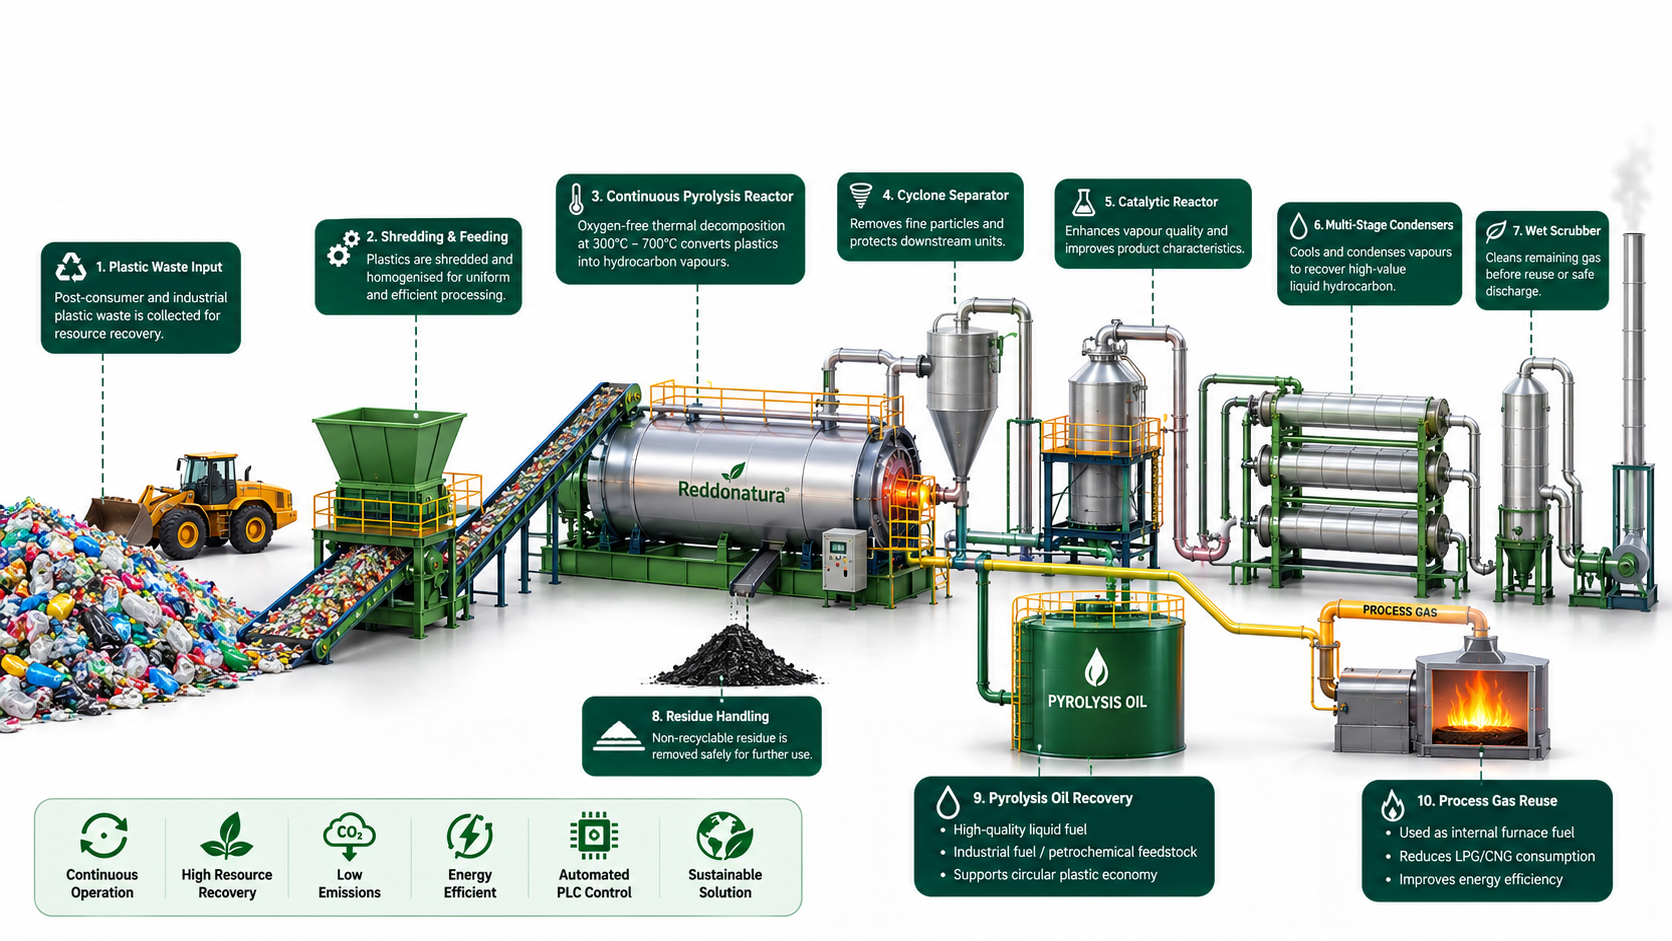
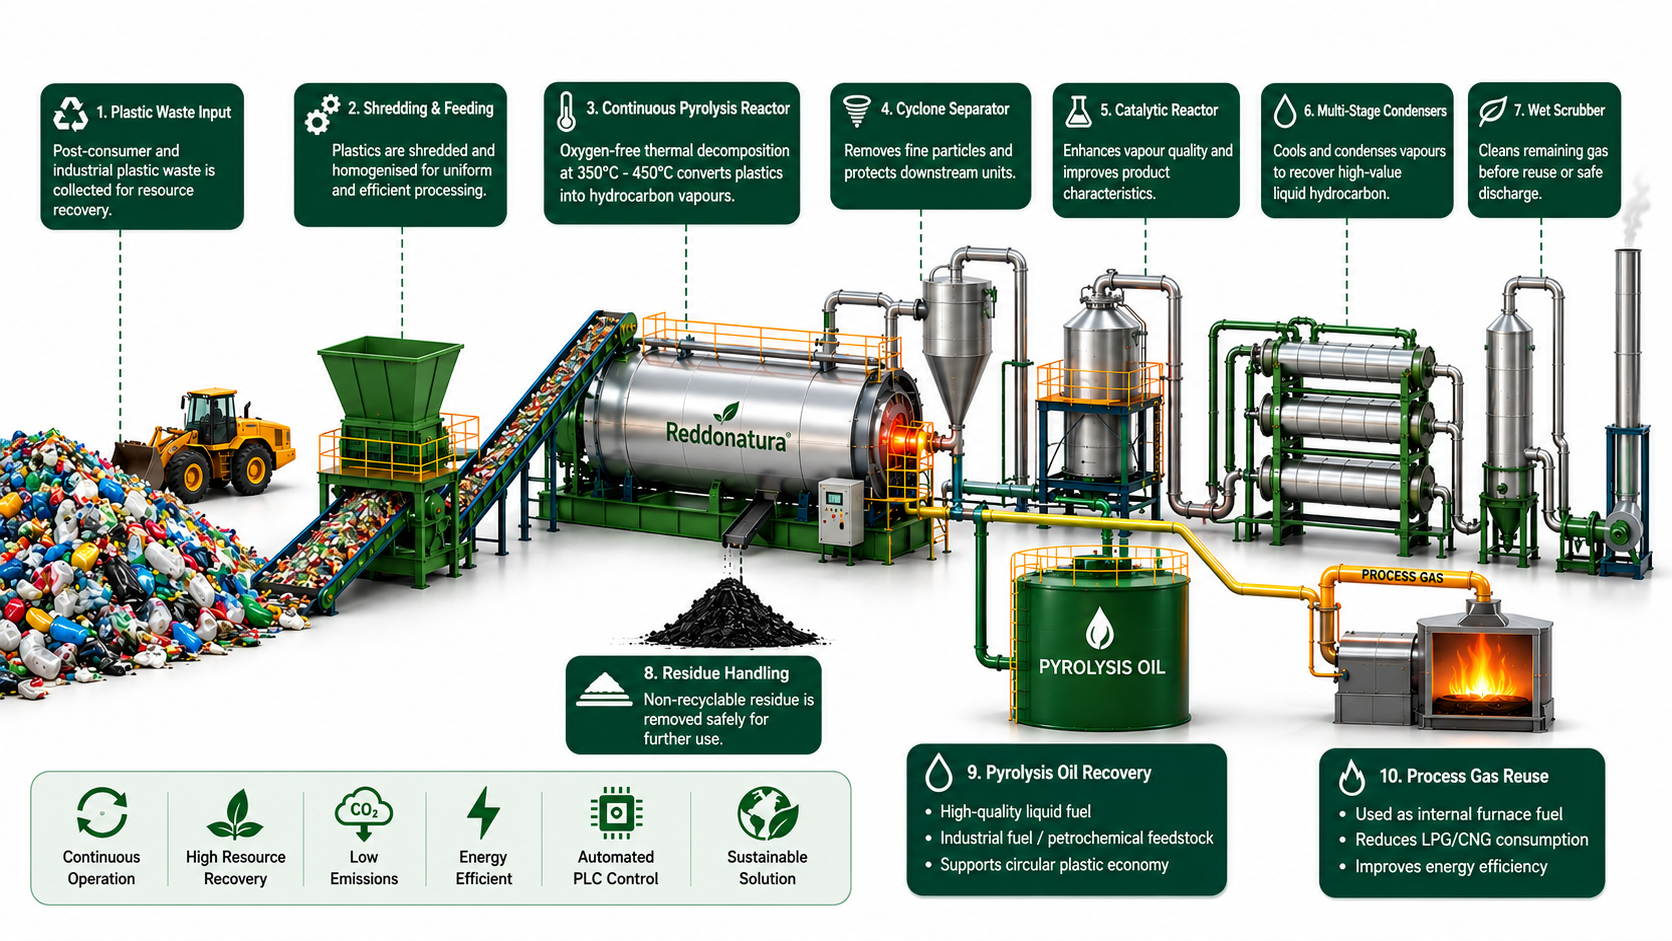
Update pyrolysis page and product images

diff --git a/src/app/pages/products/PyrolysisPage.tsx b/src/app/pages/products/PyrolysisPage.tsx
@@ -285,7 +285,7 @@ function ProductOutputs({ outputs }: {
 const biomassProcess = [
   { step: "01", title: "Feedstock Preparation", desc: "Biomass dried to <15% moisture and particle-sized to 20–50 mm for optimal reactor performance." },
   { step: "02", title: "Auto-Feeding", desc: "Sealed screw conveyor feeds biomass into the reactor continuously, preventing gas leakage." },
-  { step: "03", title: "Pyrolysis Reactor", desc: "Thermal decomposition at 400–600 °C in an oxygen-free environment breaks biomass into vapour fractions." },
+  { step: "03", title: "Pyrolysis Reactor", desc: "Thermal decomposition at 300–700 °C in an oxygen-free environment breaks biomass into vapour fractions." },
   { step: "04", title: "Char Discharge", desc: "Biochar continuously discharged via sealed screw conveyor and cooled for packaging." },
   { step: "05", title: "Oil Condensation", desc: "Pyrolysis vapours pass through multi-stage condensers to recover high-calorific bio-oil." },
 ];
@@ -305,10 +305,10 @@ const biomassOutputs = [
 
 const biomassSpecs: SpecBlock = {
   title: "Biomass Pyrolysis",
-  subtitle: "Continuous rotary kiln, 400–600 °C",
+  subtitle: "Continuous rotary kiln, 300–700 °C",
   rows: [
     { label: "Capacity Range",      value: "500 kg – 20 T/day" },
-    { label: "Reactor Temperature", value: "400 – 600 °C" },
+    { label: "Reactor Temperature", value: "300 – 700 °C" },
     { label: "Bio-Oil Yield",       value: "30 – 45%" },
     { label: "Operation Mode",      value: "Continuous / 24×7" },
   ],
@@ -335,7 +335,7 @@ const biomassSpecs: SpecBlock = {
 const plasticProcess = [
   { step: "01", title: "Sorting & Shredding", desc: "Non-recyclable plastics sorted; metals and PVC removed. Shredded to 30–50 mm for consistent reactor feed." },
   { step: "02", title: "Continuous Feeding", desc: "Sealed screw conveyor delivers shredded plastic into the reactor without gas leakage or pressure loss." },
-  { step: "03", title: "Thermal Cracking", desc: "Plastic heated at 350–450 °C in oxygen-free environment; long-chain polymers crack into hydrocarbon vapours." },
+  { step: "03", title: "Thermal Cracking", desc: "Plastic heated at 300–700 °C in oxygen-free environment; long-chain polymers crack into hydrocarbon vapours." },
   { step: "04", title: "Condensation", desc: "Vapours pass through multi-stage condensers, converting hydrocarbon gases into pyrolysis oil." },
   { step: "05", title: "Carbon Black & Gas", desc: "Residual carbon black discharged and packaged; non-condensable gas recycled to heat the reactor." },
 ];
@@ -405,7 +405,7 @@ function BiomassTab() {
             color: C.mutedText, lineHeight: 1.8, marginBottom: 16 }}>
             Our continuous biomass pyrolysis plant thermally decomposes agricultural residues,
             wood chips, rice husks, coconut shells, and other organic feedstocks in a fully sealed,
-            oxygen-free environment operating at 400–600 °C. The rotary reactor runs uninterrupted
+            oxygen-free environment operating at 300–700 °C. The rotary reactor runs uninterrupted
             around the clock, converting raw biomass into bio-oil, biochar, and syngas with zero
             harmful emissions — turning agricultural waste liabilities into commercially valuable resources.
           </p>
@@ -440,7 +440,7 @@ function BiomassTab() {
       <div className="grid grid-cols-2 md:grid-cols-4 gap-4 mt-10">
         {[
           { v: "30–45%", l: "Bio-oil yield" },
-          { v: "400–600 °C", l: "Reactor temperature" },
+          { v: "300–700 °C", l: "Reactor temperature" },
           { v: "0", l: "Harmful emissions" },
           { v: "24/7", l: "Continuous operation" },
         ].map((s, i) => (
